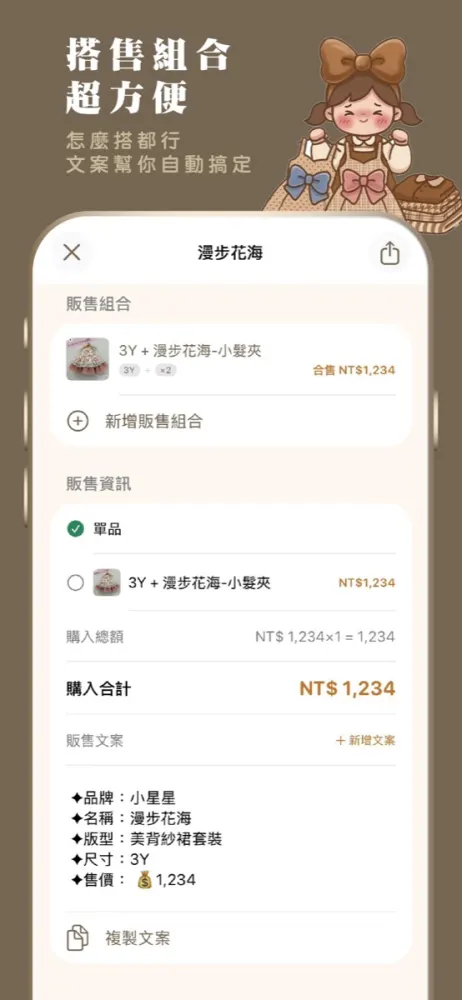
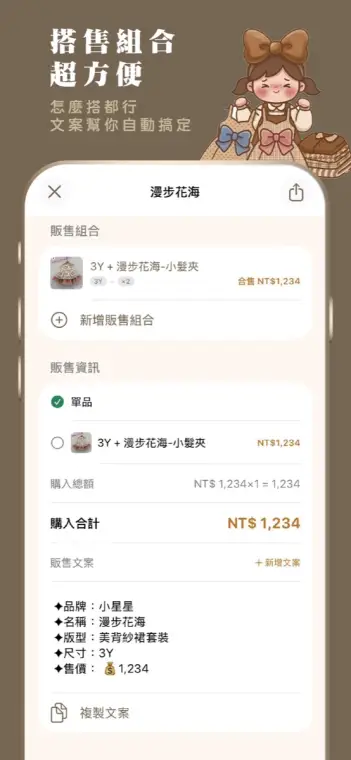
圖片再縮（女孩圖 ~20KB、截圖 ~20KB）
Claude-Session: https://claude.ai/code/session_016N6vG7J72Eosmct5UvNYs7

diff --git a/index.html b/index.html
@@ -140,7 +140,7 @@
 
   <!-- ───────── 你是不是也這樣 ───────── -->
   <section class="pain section">
-    <div class="pain-girl"><img src="assets/img/girl-wonder.webp" alt="小女孩歪著頭想事情，頭上飄著問號，想著一件洋裝和購物袋：我是不是買過這件？" width="700" height="466"></div>
+    <div class="pain-girl"><img src="assets/img/girl-wonder.webp?v=2" alt="小女孩歪著頭想事情，頭上飄著問號，想著一件洋裝和購物袋：我是不是買過這件？" width="700" height="466"></div>
     <div class="pain-copy">
       <h2>你是不是也這樣</h2>
       <ul class="pain-list">
@@ -213,16 +213,16 @@
     <h2>就是<span class="hl">這麼方便</span></h2>
     <div class="screen-row" tabindex="0" aria-label="App 畫面，可以左右滑動">
       <figure>
-        <img src="assets/img/shot1.webp" alt="品牌裡的商品清單：照片、尺寸、價格、到貨月份一眼看完" width="600" height="1298">
+        <img src="assets/img/shot1.webp?v=2" alt="品牌裡的商品清單：照片、尺寸、價格、到貨月份一眼看完" width="600" height="1298">
       </figure>
       <figure>
-        <img src="assets/img/shot2.webp" alt="編輯開樓：選好商品自動拼成主視覺，照片、文案、金額一頁搞定" width="600" height="1298">
+        <img src="assets/img/shot2.webp?v=2" alt="編輯開樓：選好商品自動拼成主視覺，照片、文案、金額一頁搞定" width="600" height="1298">
       </figure>
       <figure>
-        <img src="assets/img/shot3.webp" alt="分享卡片：自動排好照片、尺寸、售價，可以複製圖、複製文案、存相簿" width="600" height="1298">
+        <img src="assets/img/shot3.webp?v=2" alt="分享卡片：自動排好照片、尺寸、售價，可以複製圖、複製文案、存相簿" width="600" height="1298">
       </figure>
       <figure>
-        <img src="assets/img/shot4.webp" alt="搭售組合：洋裝加小髮夾一起賣，販售文案自動產生" width="600" height="1298">
+        <img src="assets/img/shot4.webp?v=2" alt="搭售組合：洋裝加小髮夾一起賣，販售文案自動產生" width="600" height="1298">
       </figure>
     </div>
     <p class="screens-note">截圖中的美衣感謝「Lumistar 小星星手作訂製樂園」授權 <span class="heart" aria-hidden="true">♡</span><br>價格均為示意。</p>
@@ -244,7 +244,7 @@
 
   <!-- ───────── FAQ ───────── -->
   <section class="faq section" id="faq">
-    <img class="faq-girl" src="assets/img/girl-lean.webp" alt="小女孩趴著，旁邊有一隻小狗" width="645" height="406">
+    <img class="faq-girl" src="assets/img/girl-lean.webp?v=2" alt="小女孩趴著，旁邊有一隻小狗" width="645" height="406">
     <p class="section-label">Q&amp;A</p>
     <h2>媽媽們<span class="hl">常問的</span></h2>
     <div class="faq-list">
@@ -278,7 +278,7 @@
   <!-- ───────── 下載 ───────── -->
   <section class="download section" id="download">
     <div class="download-card">
-      <img class="download-girl" src="assets/img/girl-smile.webp" alt="開心笑著的小女孩" width="700" height="464">
+      <img class="download-girl" src="assets/img/girl-smile.webp?v=2" alt="開心笑著的小女孩" width="700" height="464">
       <h2>今天<span class="nobr">又又買了</span>什麼<br><span class="hl">記下來就不怕</span></h2>
       <p>快來整理你的黑洞吧～</p>
       <a class="store-button" href="https://apps.apple.com/tw/app/id6759883648" target="_blank" rel="noopener" aria-label="到 App Store 下載又又買了">

diff --git a/handmade-group-buy.html b/handmade-group-buy.html
@@ -92,7 +92,7 @@
 
   <section class="download section">
     <div class="download-card">
-      <img class="download-girl" src="assets/img/girl-smile.webp" alt="開心笑著的小女孩" width="700" height="464">
+      <img class="download-girl" src="assets/img/girl-smile.webp?v=2" alt="開心笑著的小女孩" width="700" height="464">
       <h2>今天就來<br><span class="hl">記下這個月的訂單吧</span></h2>
       <p>免費下載，先把還在等的那幾件記進來。</p>
       <a class="store-button topic-store" href="https://apps.apple.com/tw/app/id6759883648" target="_blank" rel="noopener" aria-label="到 App Store 下載又又買了">

diff --git a/outfit-planner.html b/outfit-planner.html
@@ -92,7 +92,7 @@
 
   <section class="download section">
     <div class="download-card">
-      <img class="download-girl" src="assets/img/girl-smile.webp" alt="開心笑著的小女孩" width="700" height="464">
+      <img class="download-girl" src="assets/img/girl-smile.webp?v=2" alt="開心笑著的小女孩" width="700" height="464">
       <h2>今天就來<br><span class="hl">排明天的穿搭吧</span></h2>
       <p>免費下載，先把想穿的幾件放進待穿區。</p>
       <a class="store-button topic-store" href="https://apps.apple.com/tw/app/id6759883648" target="_blank" rel="noopener" aria-label="到 App Store 下載又又買了">

diff --git a/wardrobe-organizing.html b/wardrobe-organizing.html
@@ -92,7 +92,7 @@
 
   <section class="download section">
     <div class="download-card">
-      <img class="download-girl" src="assets/img/girl-smile.webp" alt="開心笑著的小女孩" width="700" height="464">
+      <img class="download-girl" src="assets/img/girl-smile.webp?v=2" alt="開心笑著的小女孩" width="700" height="464">
       <h2>今天就來<br><span class="hl">整理衣櫃黑洞吧</span></h2>
       <p>免費下載，先從最常穿的那幾件開始記。</p>
       <a class="store-button topic-store" href="https://apps.apple.com/tw/app/id6759883648" target="_blank" rel="noopener" aria-label="到 App Store 下載又又買了">

diff --git a/pricing.html b/pricing.html
@@ -107,7 +107,7 @@
 
   <section class="download section">
     <div class="download-card">
-      <img class="download-girl" src="assets/img/girl-smile.webp" alt="開心笑著的小女孩" width="700" height="464">
+      <img class="download-girl" src="assets/img/girl-smile.webp?v=2" alt="開心笑著的小女孩" width="700" height="464">
       <h2>先免費用用看<br><span class="hl">喜歡再升級</span></h2>
       <p>下載後隨時可以在 App 裡升級 Pro。</p>
       <a class="store-button topic-store" href="https://apps.apple.com/tw/app/id6759883648" target="_blank" rel="noopener" aria-label="到 App Store 下載又又買了">

diff --git a/kids-clothes-budget.html b/kids-clothes-budget.html
@@ -92,7 +92,7 @@
 
   <section class="download section">
     <div class="download-card">
-      <img class="download-girl" src="assets/img/girl-smile.webp" alt="開心笑著的小女孩" width="700" height="464">
+      <img class="download-girl" src="assets/img/girl-smile.webp?v=2" alt="開心笑著的小女孩" width="700" height="464">
       <h2>今天就來<br><span class="hl">記下第一筆吧</span></h2>
       <p>免費下載，先把這個月買的記進來。</p>
       <a class="store-button topic-store" href="https://apps.apple.com/tw/app/id6759883648" target="_blank" rel="noopener" aria-label="到 App Store 下載又又買了">

diff --git a/sale-group.html b/sale-group.html
@@ -93,7 +93,7 @@
 
   <section class="download section">
     <div class="download-card">
-      <img class="download-girl" src="assets/img/girl-smile.webp" alt="開心笑著的小女孩" width="700" height="464">
+      <img class="download-girl" src="assets/img/girl-smile.webp?v=2" alt="開心笑著的小女孩" width="700" height="464">
       <h2>今天就來<br><span class="hl">開一樓清黑洞吧</span></h2>
       <p>免費下載，先挑幾件想清的衣服。</p>
       <a class="store-button topic-store" href="https://apps.apple.com/tw/app/id6759883648" target="_blank" rel="noopener" aria-label="到 App Store 下載又又買了">

diff --git a/sell-secondhand.html b/sell-secondhand.html
@@ -93,7 +93,7 @@
 
   <section class="download section">
     <div class="download-card">
-      <img class="download-girl" src="assets/img/girl-smile.webp" alt="開心笑著的小女孩" width="700" height="464">
+      <img class="download-girl" src="assets/img/girl-smile.webp?v=2" alt="開心笑著的小女孩" width="700" height="464">
       <h2>今天就來<br><span class="hl">清一清黑洞吧</span></h2>
       <p>免費下載，先試著做一張分享卡片。</p>
       <a class="store-button topic-store" href="https://apps.apple.com/tw/app/id6759883648" target="_blank" rel="noopener" aria-label="到 App Store 下載又又買了">

diff --git a/wanted-post.html b/wanted-post.html
@@ -91,7 +91,7 @@
 
   <section class="download section">
     <div class="download-card">
-      <img class="download-girl" src="assets/img/girl-smile.webp" alt="開心笑著的小女孩" width="700" height="464">
+      <img class="download-girl" src="assets/img/girl-smile.webp?v=2" alt="開心笑著的小女孩" width="700" height="464">
       <h2>今天就來<br><span class="hl">記下想買的吧</span></h2>
       <p>免費下載，先記下最想徵的那一件。</p>
       <a class="store-button topic-store" href="https://apps.apple.com/tw/app/id6759883648" target="_blank" rel="noopener" aria-label="到 App Store 下載又又買了">
